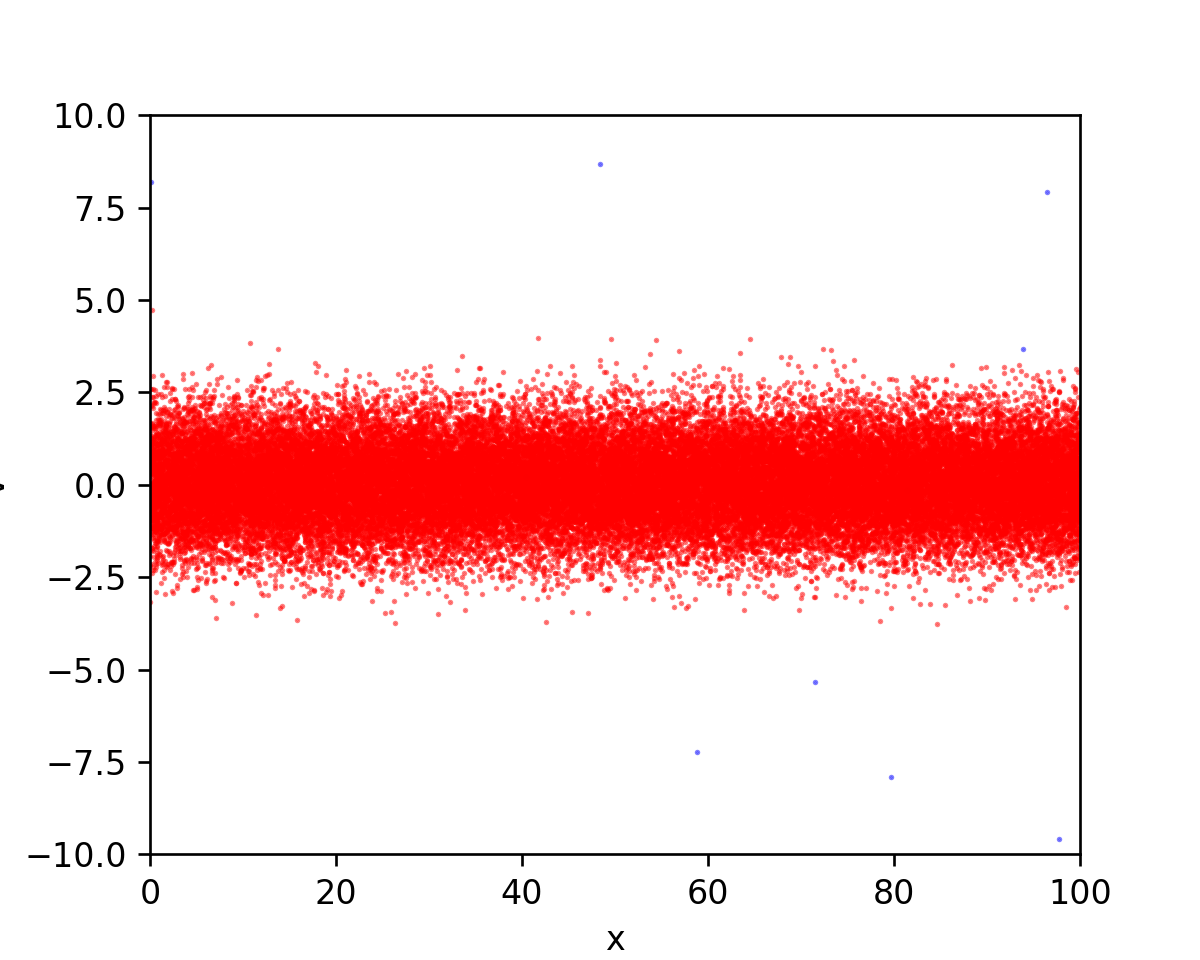
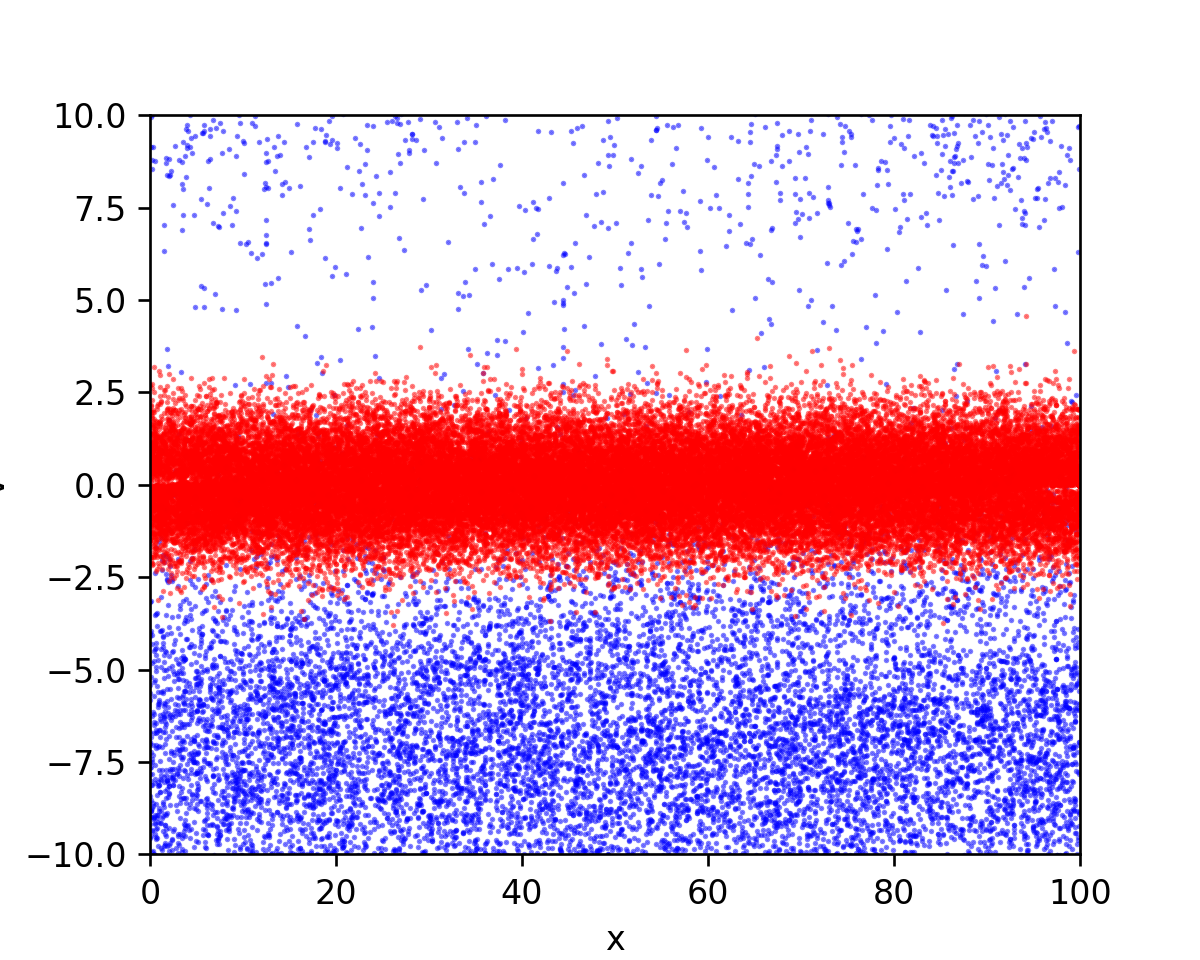
boundary conditions ver2

diff --git a/main.py b/main.py
@@ -65,11 +65,11 @@ def getAcc(pos, Nx, Nh, boxsize, n0, Gmtx, Lmtx, Laptx, t, Vrf, w):
 
     # Solve Poisson's Equation: laplacian(phi) = n-n0
     #phi_Pois_grid = spsolve(Lmtx, n - n0, permc_spec="MMD_AT_PLUS_A")
-    phi_Pois_grid = spsolve(Laptx, n - n0, permc_spec="MMD_AT_PLUS_A")
+    phi_Pois_grid = spsolve(Laptx, n, permc_spec="MMD_AT_PLUS_A")
 
     zerros = []
     zerros = [0 for index in range(Nx)]
-    zerros[Nx-1] = Vrf - Vrf * np.sin(w*t)
+    zerros[Nx-1] = n[Nx-1] - Vrf * np.sin(w*t)
 
     # Solve Laplace's Equation: laplacian(phi) = 0
     phi_Lap_grid = spsolve(Laptx, zerros, permc_spec="MMD_AT_PLUS_A")
@@ -108,7 +108,7 @@ def main():
     Energy_max = 5.0  # max electron energy
     deltaE = 100  # energy discretization
     Vrf = 15  # RF amplitude
-    w = 2 * np.pi * 13.560000  # frequency
+    w = 2 * np.pi * 13560000  # frequency
     plotRealTime = True  # switch on for plotting as the simulation goes along
 
     # Generate Initial Conditions
@@ -181,8 +181,14 @@ def main():
     for i in range(Nt):
         # (1/2) kick
         #vel += acc * dt / 2.0
-        vel[0:Nh] += acc * dt / 2.0 / me
-        vel[Nh:] -= acc * dt / 2.0 / mi
+        for ind in range(N):
+            if (pos[ind] <= boxsize - dx) and (ind < Nh):
+                vel[ind] += acc[int(pos[ind]//dx), 0] * dt / 2.0 / me
+            elif (pos[ind] <= boxsize - dx) and (ind >= Nh):
+                vel[ind] -= acc[int(pos[ind]//dx), 0] * dt / 2.0 / mi
+            else:
+                vel[ind] = 0
+
 
         # drift (and apply periodic boundary conditions)
         pos += vel * dt
@@ -196,8 +202,16 @@ def main():
 
         # (1/2) kick
         #vel += acc * dt / 2.0
-        vel[0:Nh] += acc * dt / 2.0 / me
-        vel[Nh:] -= acc * dt / 2.0 / mi
+        #vel[0:Nh] += acc * dt / 2.0 / me
+        #vel[Nh:] -= acc * dt / 2.0 / mi
+        for ind in range(N):
+            if (pos[ind] <= boxsize - dx) and (ind < Nh):
+                vel[ind] += acc[int(pos[ind]//dx), 0] * dt / 2.0 / me
+            elif (pos[ind] <= boxsize - dx) and (ind >= Nh):
+                vel[ind] -= acc[int(pos[ind]//dx), 0] * dt / 2.0 / mi
+            else:
+                vel[ind] = 0
+
 
         """
         Phase diagram
